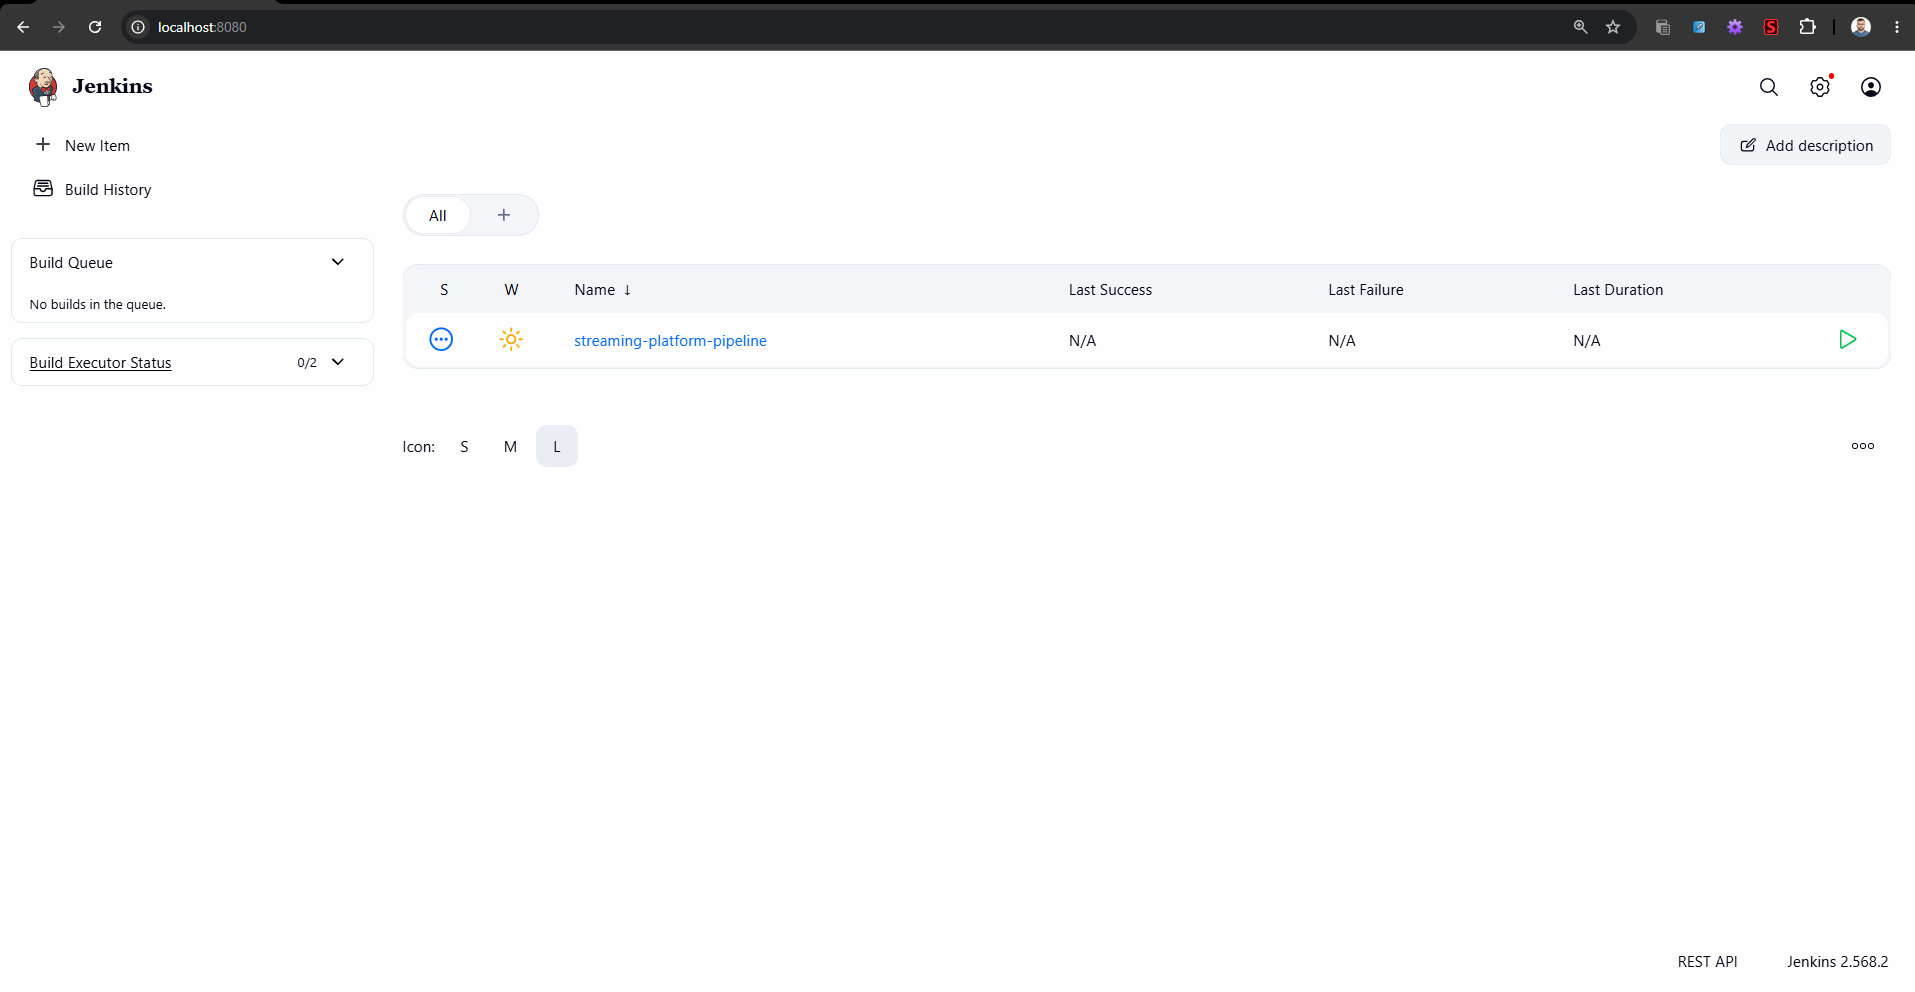
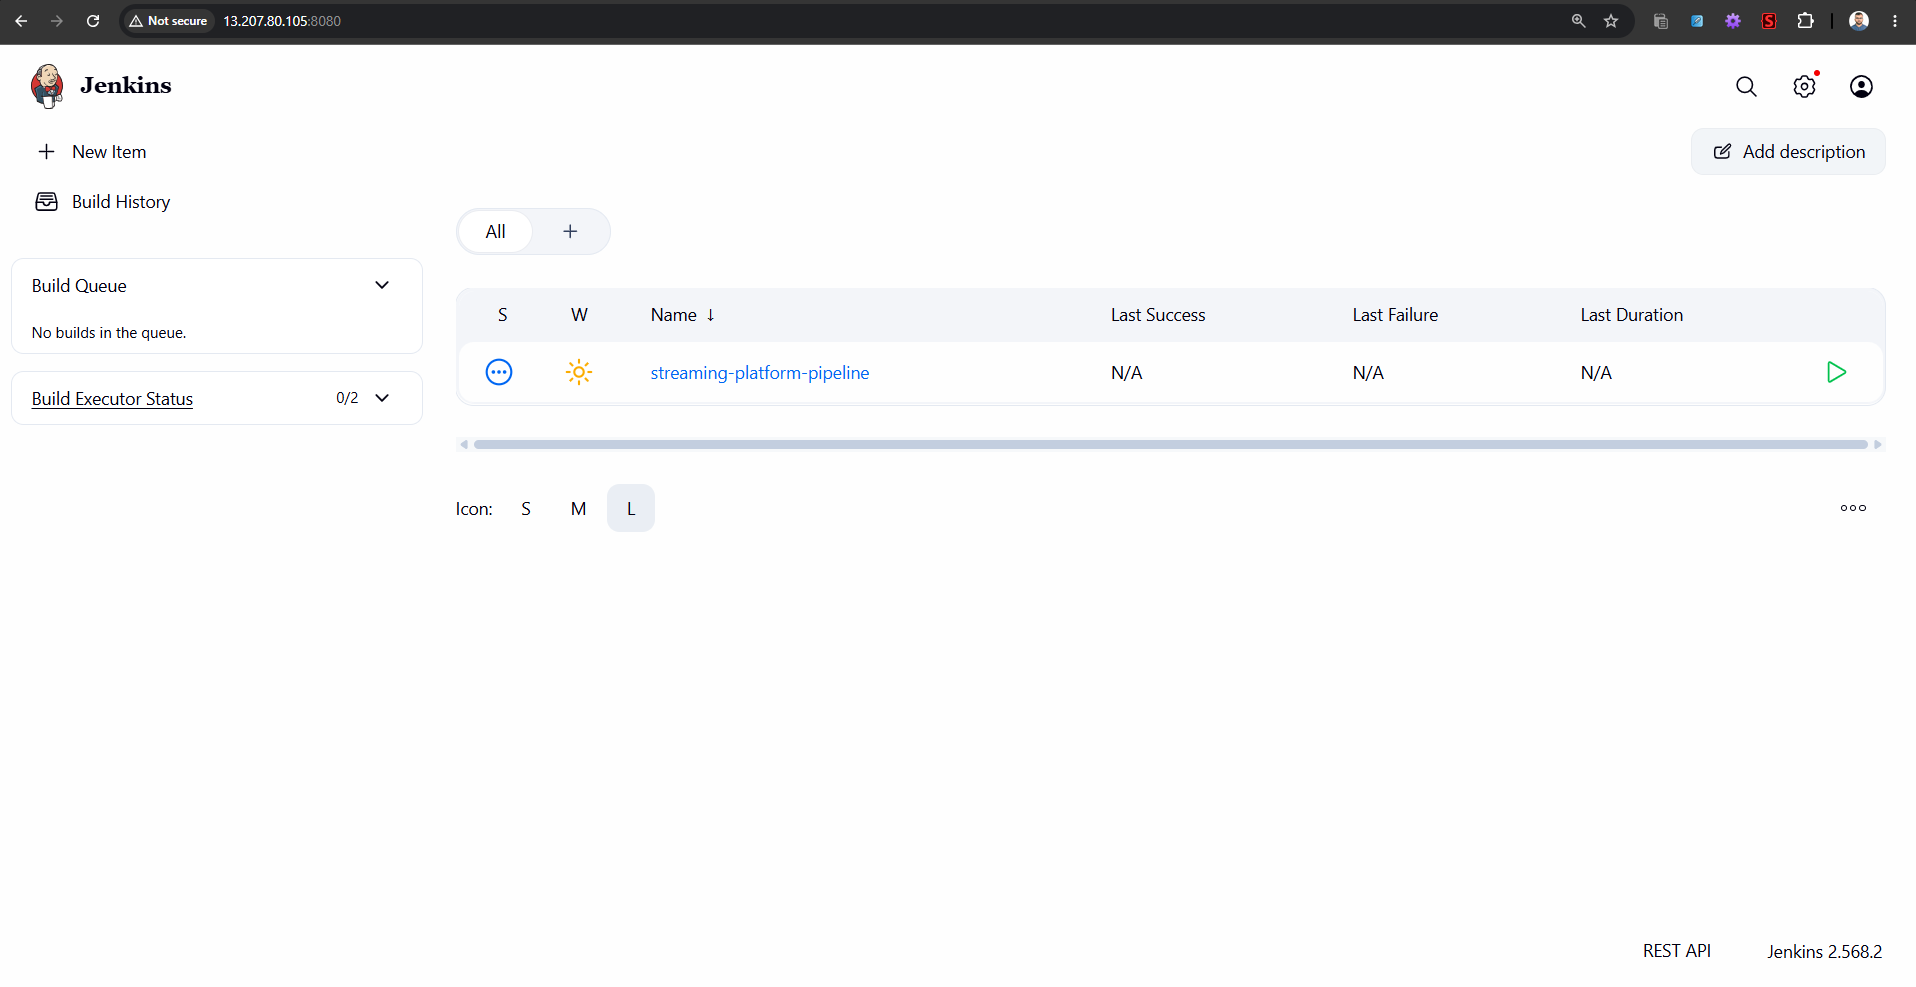
feat: complete Phase 3 setup with AWS EC2 Jenkins, docs, and evidence

diff --git a/Documentation/05-Jenkins-CICD-Pipeline.md b/Documentation/05-Jenkins-CICD-Pipeline.md
@@ -1,7 +1,7 @@
 # 05. End-to-End Jenkins CI/CD Pipeline
 
 ## 1. Overview
-The Jenkins CI/CD pipeline automates the entire software delivery lifecycle from code commit to production rollout on AWS EKS. It is implemented as a Declarative Pipeline in `Jenkinsfile`.
+The Jenkins CI/CD pipeline orchestrates the entire software delivery lifecycle from code commit to production rollout on AWS EKS. The Jenkins Controller runs directly on a dedicated **AWS EC2 instance (`t3.medium`)** in the VPC public subnet (`10.0.1.0/24`) with an Elastic IP and an attached IAM Instance Profile for direct, zero-credential access to Amazon EKS and Amazon ECR. It is implemented as a Declarative Pipeline in `Jenkinsfile`.
 
 ---
 
@@ -38,7 +38,13 @@ The Jenkins CI/CD pipeline automates the entire software delivery lifecycle from
 
 ---
 
-## 3. Jenkins Prerequisites & Configuration
+## 3. Jenkins AWS EC2 Deployment & Configuration
+
+### Provisioning on AWS EC2
+* **Compute:** `t3.medium` (Ubuntu 22.04 LTS) provisioned via `terraform/jenkins_ec2.tf`.
+* **Networking:** Public Subnet 1 (`10.0.1.0/24`) with dedicated AWS Elastic IP.
+* **IAM Instance Profile:** `streaming-platform-jenkins-instance-profile` granting native IAM role permissions for EKS cluster administration, ECR image push, and S3 state access.
+* **Security Group:** Inbound Port `8080` (Web UI) and Port `22` (SSH management).
 
 ### Required Jenkins Plugins
 1.  **Pipeline:** Declarative Pipeline support.
@@ -49,14 +55,10 @@ The Jenkins CI/CD pipeline automates the entire software delivery lifecycle from
 6.  **Slack Notification Plugin:** For real-time incident alerting.
 7.  **Prometheus Metrics Plugin:** For exporting Jenkins build metrics to Prometheus.
 
-### Setting Up AWS Credentials in Jenkins
+### Setting Up Credentials in Jenkins
 1.  Navigate to **Jenkins Dashboard** -> **Manage Jenkins** -> **Credentials** -> **System** -> **Global credentials**.
-2.  Click **Add Credentials**.
-3.  **Kind:** `AWS Credentials`
-4.  **ID:** `aws-capstone-credentials`
-5.  **Access Key ID:** Enter your AWS IAM Access Key.
-6.  **Secret Access Key:** Enter your AWS IAM Secret Key.
-7.  Click **Create**.
+2.  **AWS Credentials (ID: `aws-capstone-credentials`):** Optional if using IAM Instance Profile; enter Access Key and Secret Key if using IAM user.
+3.  **Slack Webhook Secret Text (ID: `slack-token`):** Enter your Slack Incoming Webhook URL to enable real-time Slack notifications.
 
 ---
 

diff --git a/Documentation/02-Terraform-IaC-Guide.md b/Documentation/02-Terraform-IaC-Guide.md
@@ -21,6 +21,7 @@ terraform/
 ├── security_groups.tf       # EKS cluster and node security groups
 ├── eks.tf                   # EKS Cluster, Node Group, IAM, and OIDC Provider
 ├── ecr.tf                   # ECR Repositories and lifecycle retention rules
+├── jenkins_ec2.tf           # Jenkins CI/CD Controller EC2 instance, EIP, and IAM Role
 ├── outputs.tf               # Exported resource IDs, endpoints, and commands
 └── scripts/
     ├── teardown.sh          # Fast bash teardown script
@@ -57,7 +58,7 @@ terraform validate
 ```bash
 terraform plan -out=tfplan
 ```
-*Review the resources to be created (approx. 30-35 AWS resources).*
+*Review the resources to be created (approx. 35-40 AWS resources).*
 
 ![Terraform Plan Output](../screenshots/03-terraform-plan-output.png)
 
@@ -65,7 +66,7 @@ terraform plan -out=tfplan
 ```bash
 terraform apply tfplan
 ```
-*(Provisioning typically takes 10 to 15 minutes due to AWS EKS cluster and node group creation).*
+*(Provisioning creates VPC, EKS, ECR repositories, and the dedicated Jenkins EC2 controller).*
 
 ![Terraform Apply Complete](../screenshots/04-terraform-apply-complete.png)
 
@@ -87,4 +88,6 @@ kubectl get nodes
 | `eks_cluster_name` | Name of the EKS Cluster (`streaming-eks-cluster`) |
 | `eks_cluster_endpoint`| Kubernetes API Server HTTPS endpoint |
 | `ecr_repository_urls` | Map of repository URIs for each of the 5 microservices |
+| `jenkins_public_ip` | Static Elastic IP of the Jenkins Controller EC2 instance |
+| `jenkins_url` | Web Console URL for Jenkins Server (`http://<EIP>:8080`) |
 | `configure_kubectl` | Exact command to authenticate `kubectl` with the cluster |

diff --git a/README.md b/README.md
@@ -32,14 +32,11 @@ This project delivers a production-grade, enterprise-ready **DevOps CI/CD Pipeli
         │
         ▼
 [ Jenkins CI/CD Orchestrator ]
-   ├── Stage 1: Checkout SCM
-   ├── Stage 2: Code Quality & Security Audit
-   ├── Stage 3: Terraform (Provisions VPC, EKS, ECR)
-   ├── Stage 4: Ansible (Configures Host Tools & Dependencies)
-   ├── Stage 5: Docker (Builds 5 Microservice Images)
-   ├── Stage 6: Amazon ECR (Pushes Tagged Images)
-   ├── Stage 7: Kubernetes (Deploys Pods, Services, HPA to EKS)
-   └── Stage 8: Health Checks & Automated Rollout Verification
+   ├── Stage 1: Build Stage (Security audit, Docker builds & ECR Push)
+   ├── Stage 2: Infrastructure Provisioning Stage (Terraform VPC, EKS, S3 State)
+   ├── Stage 3: Configuration Management Stage (Ansible Host & Node Config)
+   ├── Stage 4: Deployment Stage (Kubernetes Manifests, HPAs, LoadBalancers)
+   └── Stage 5: Testing & Monitoring Stage (Automated Smoke Tests & Prometheus/Grafana)
         │
         ▼
 [ AWS Cloud Infrastructure (ap-south-1) ]
